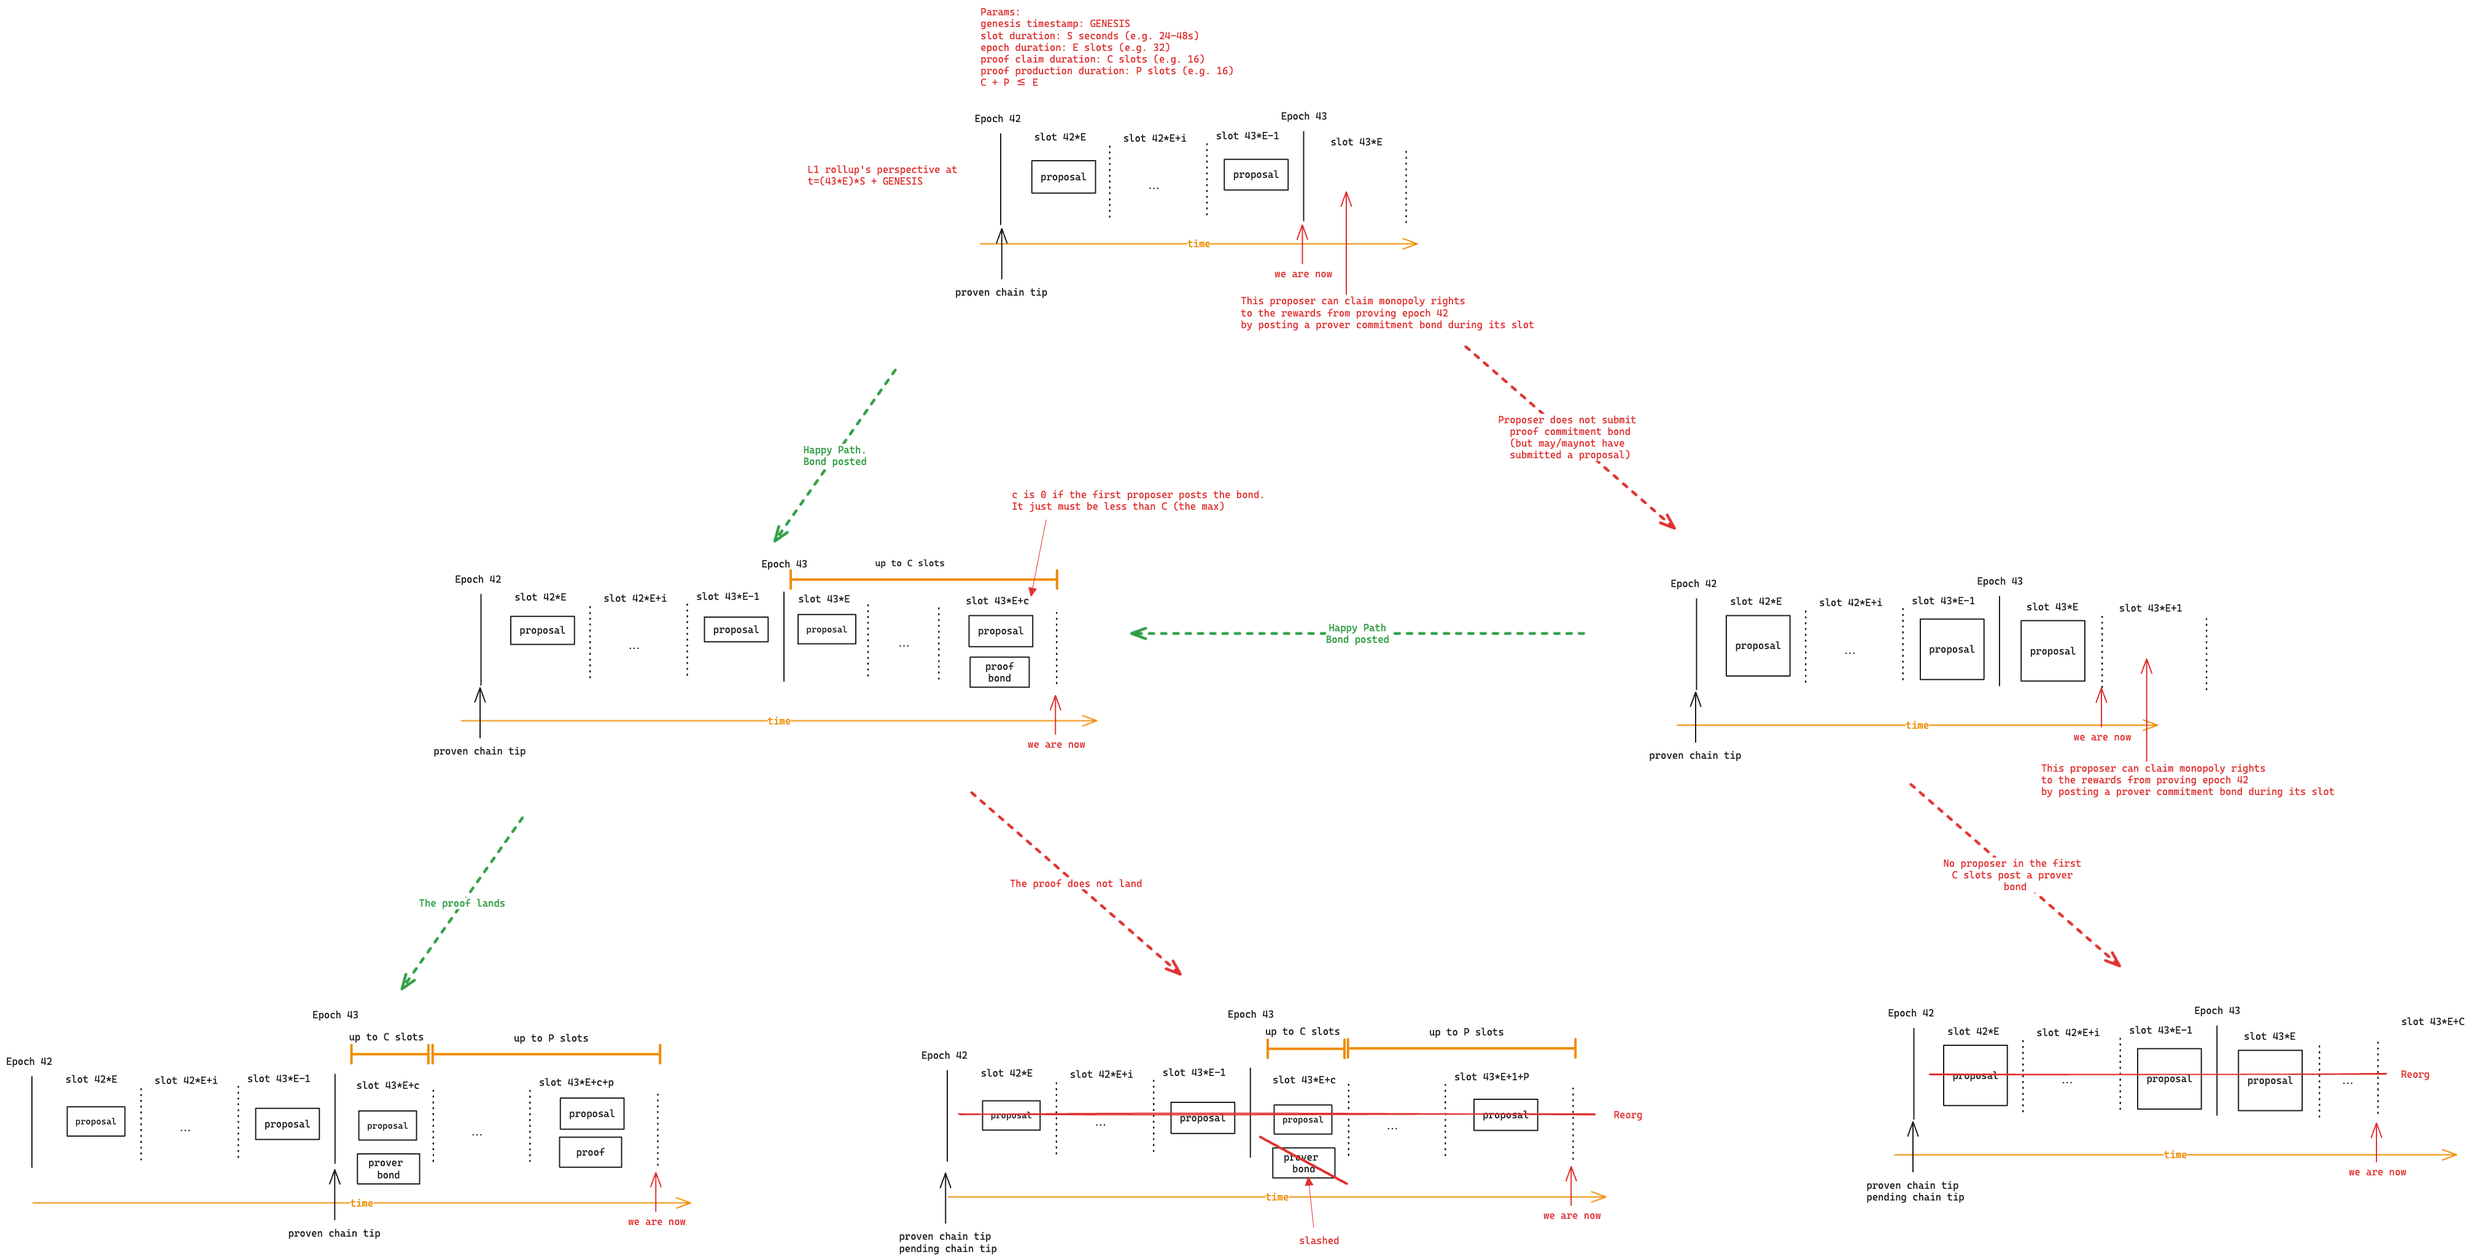
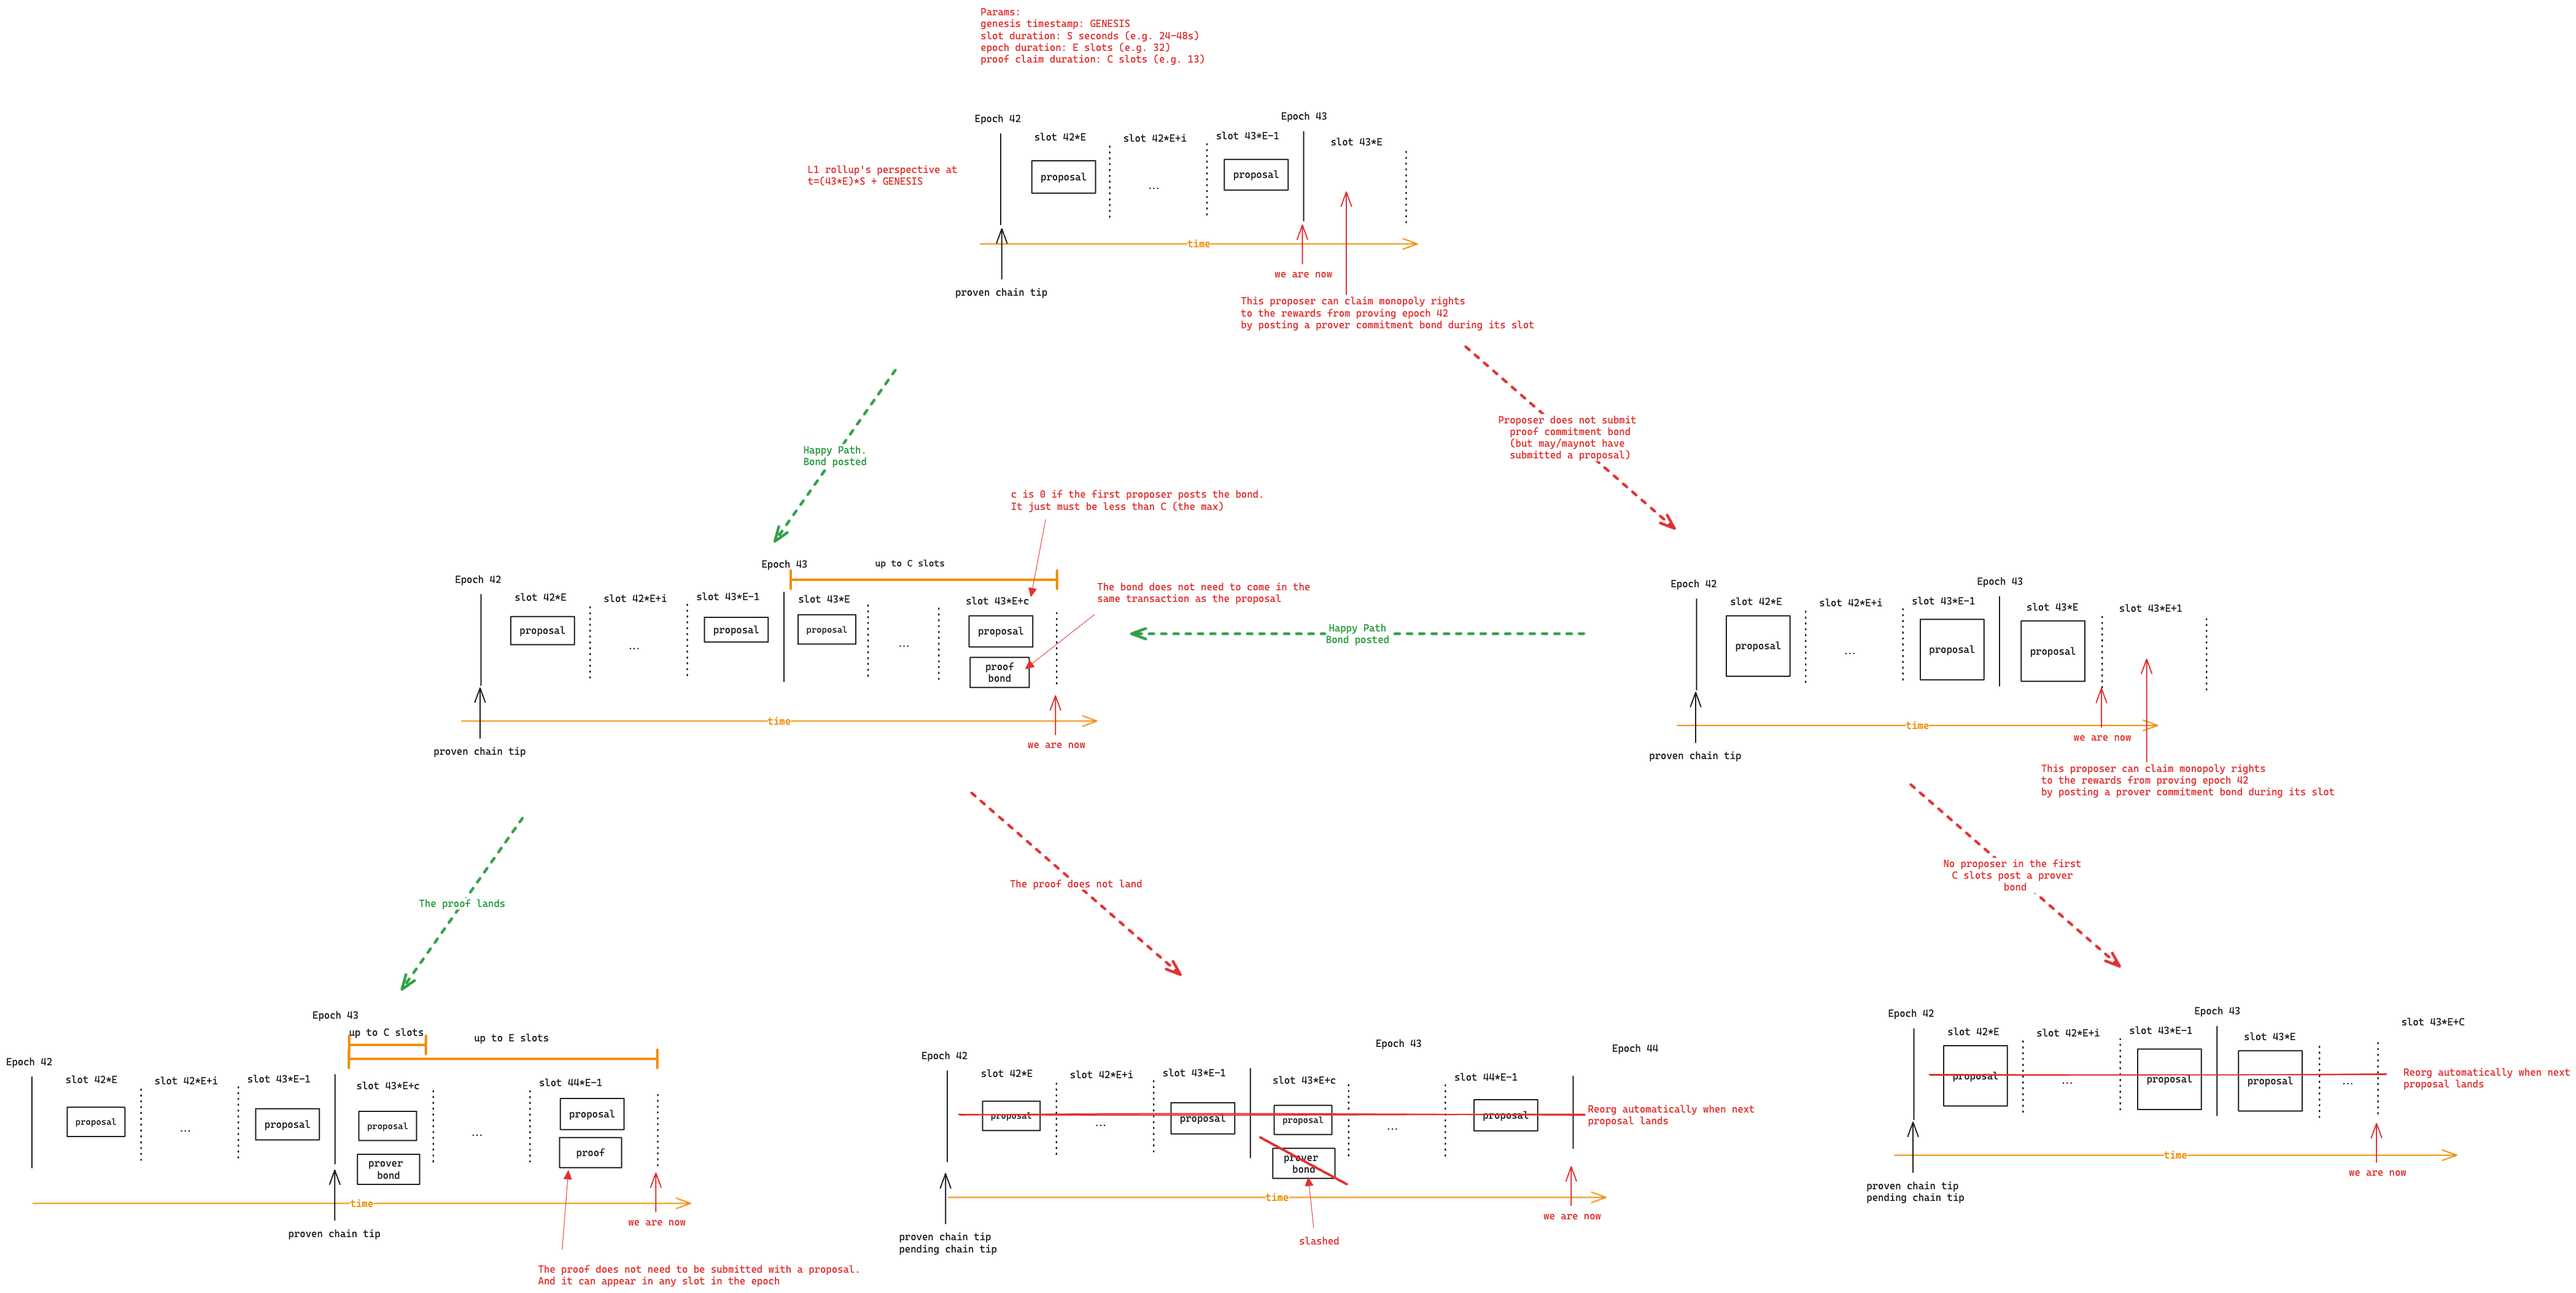
remove proof production phase. clean up implementation

diff --git a/in-progress/8401-proof-timeliness/design.md b/in-progress/8401-proof-timeliness/design.md
@@ -30,221 +30,195 @@ This design focuses on how those timelines are defined and enforced by the rollu
 
 The beginning of each epoch is the "proof claim phase".
 
-This phase has a duration of $C$ slots (e.g. 16 slots).
+This phase has a duration of $C$ slots (e.g. 13 slots).
 
 During this time, the proposer for a slot can submit a claim to be the prover for the previous epoch.
 
 This can be a transaction separate from the submission of their proposed block.
 
-Doing so grants monopoly rights to the rewards for submitting the proof of epoch `n-1`.
+Doing so grants monopoly rights to the rewards for submitting the proof of epoch `n-1`:
+if there are block rewards in test token TST, they will be sent to the address that submitted the claim.
 
-If no claim is submitted, the pending chain is pruned to the tip of the proven chain.
+If no claim is submitted, the pending chain is pruned to the tip of the proven chain;
+a caveat is if a proof for epoch `n-1` is submitted during the proof claim phase.
 
-### Proof production phase
+### Proof production
 
-If a claim is submitted during the proof claim phase, the next phase is the "proof production phase".
+The proof for epoch `n-1` must land in epoch `n`.
 
-This phase has a duration of $P$ slots (e.g. 16 slots).
-
-Failure to submit a proof results in the bond posted with the claim being slashed.
+Failure to submit a proof results in the bond posted with the claim being slashed if it exists.
 
 Further, the pending chain is pruned to the tip of the proven chain.
 
-The wall time duration of $P$ slots must be greater than the time required to produce a proof.
+Given that an epoch is $E$ slots, the wall time duration of $E-C$ slots must be greater than the time required to produce a proof.
 
-For simplicity, $P + C <= E$: this means we will never be producing a proof for more than one epoch at a time.
+## Rough Implementation
 
-## Implementation
+This is a rough, illustrative implementation of the proof timeliness requirement to guide intuition.  
+For example, it is highly unlikely that the rollup contract will hold the bond.
+
+The key "trick" is that we prune the pending chain as part of a proposer's block submission.
+
+An observation is that in the current design, the committee does not change in the event that no proof claim is posted for the previous epoch.
 
 ```solidity
-struct ChainTip {
-    uint256 blockNumber;
-    uint256 slotNumber;
-}
 
-struct State {
-    ChainTip pendingTip;
-    ChainTip provenTip;
-}
-
-struct ProposalLog {
-    bytes32 hash;
-    uint256 slotNumber;
-    bytes32 archive;
-}
-
-struct ProofBond {
-    address bondProvider;
-    address rewardRecipient;
-    uint256 slotOfClaim;
-}
-
-struct Fee {
-    address recipient;
-    uint256 amount;
-}
-
-struct EpochHeader {
-    uint256 finalBlockNumber;
-    Fee[32] fees;
-}
-
-// State variables
-State public state;
-mapping(uint256 => ProposalLog) public proposalLogs;
-ProofBond public proofBond;
-IERC20 public testToken;
-
-// Constants
-uint256 public constant CLAIM_DURATION = 16;
-uint256 public constant PROOF_DURATION = 16;
-uint256 public constant EPOCH_DURATION = 32;
-uint256 public constant PROOF_COMMITMENT_BOND_AMOUNT = 100;
-
-
-function claimProofRight(
-  // the proposer may have a deal with a prover marketplace, who will pay the bond
-  address _bondProvider,
-
-) external {
-  uint256 currentSlot = getCurrentSlot();
-  address currentProposer = getCurrentProposer();
-
-  if (currentProposer != address(0) && currentProposer != msg.sender) {
-    revert Errors.Rollup__NonProposerCannotClaimProofRight();
-  }
-
-  if (proofBond.rewardRecipient != address(0)) {
-    revert Errors.Rollup__ProofRightAlreadyClaimed();
-  }
-
-  if (currentSlot % EPOCH_DURATION >= CLAIM_DURATION) {
-    revert Errors.Rollup__NotInClaimPhase();
-  }
-
-  // transfer the bond from the bond provider to the rollup contract
-  testToken.transferFrom(_bondProvider, address(this), PROOF_COMMITMENT_BOND_AMOUNT);
-
-  proofBond.rewardRecipient = msg.sender;
-  proofBond.bondProvider = _bondProvider;
-  proofBond.slotOfClaim = currentSlot;
-
-  // we don't need to store the epoch number, as it can be inferred from the current slot
-  claimedEpoch = getCurrentEpoch() - 1;
-
-  emit ProofRightClaimed(msg.sender, claimedEpoch, currentSlot);
-}
-
-
-function _prune() internal {
-  uint256 currentSlot = getCurrentSlot();
-  uint256 currentEpoch = getCurrentEpoch();
-  if (
-    // if the proof claim phase has ended
-    // and no one has claimed
-    currentProofClaimer == address(0) && 
-    currentSlot >= state.provenTip.slotNumber + EPOCH_DURATION + CLAIM_DURATION
-  ) {
-    // prune the pending chain to the tip of the proven chain
-    state.pendingTip = state.provenTip;
-    emit PendingChainPruned(state.pendingTip.blockNumber, state.pendingTip.slotNumber);
-  } else if (
-    // if the proof production phase has ended
-    // and no proof has been submitted
-    currentProofClaimer != address(0) &&
-    currentSlot >= proofBond.slotOfClaim + PROOF_DURATION
-  ) {
-    // prune the pending chain to the tip of the proven chain
-    state.pendingTip = state.provenTip;
-    _slashBond(); 
-    emit PendingChainPruned(state.pendingTip.blockNumber, state.pendingTip.slotNumber);
-  }
-}
-
-function _slashBond() internal {
-  // do nothing at the moment
-  // i.e. the rollup contract will keep the bond
-  proofBond.rewardRecipient = address(0);
-  proofBond.bondProvider = address(0);
-
-  emit BondSlashed();
-}
-
-function _returnBond() internal {
-  // return the bond to the bond provider
-  testToken.transfer(proofBond.bondProvider, PROOF_COMMITMENT_BOND_AMOUNT);
-  proofBond.rewardRecipient = address(0);
-  proofBond.bondProvider = address(0);
-
-  emit BondReturned();
-}
-
-function proposeBlock() {
-  // call _prune before proposing a block
-  _prune();
-  // ...
-}
-
-function submitProofOfEpoch(
-  // ...other args
-  bytes calldata _epochHeader
-) {
-  EpochHeader memory epochHeader = decodeHeader(_epochHeader);
-  uint256 finalBlockNumber = epochHeader.finalBlockNumber;
-  Fee[32] memory fees = epochHeader.fees;
-
-  ProposalLog memory proposalLog = proposalLogs[finalBlockNumber];
-  if (proposalLog.hash == 0) {
-    revert Errors.Rollup__NoProposalLog();
-  }
-
-  // check that the proven block is from the previous epoch
-  if (
-    getEpochAt(proposalLog.slotNumber) != getCurrentEpoch() - 1
-  ) {
-    revert Errors.Rollup__NotPreviousEpoch();
-  }
-
-  // check that the proven block is the last one in the epoch
-  ProposalLog memory nextProposalLog = proposalLogs[finalBlockNumber + 1];
-  if (
-    // if there is a next proposal log
-    nextProposalLog.hash != 0 &&
-    // and it is in the same epoch
-    getEpochAt(nextProposalLog.slotNumber) == getCurrentEpoch() - 1
-  ) {
-    revert Errors.Rollup__NotLastBlockInEpoch();
-  }
-
-  // check that the proof is submitted within the proof production phase
-  uint256 currentSlot = getCurrentSlot();
-  if (
-    currentSlot >= proofBond.slotOfClaim + PROOF_DURATION
-  ) {
-    revert Errors.Rollup__ProofProductionPhaseEnded();
-  }
-
-  // ... go on and verify the proof
-
-  // if the proof is valid
-  // update the proven tip
-  state.provenTip = ChainTip(provenBlockNumber, proposalLog.slotNumber);
-
-  // for each fee
-  for (uint256 i = 0; i < fees.length; i++) {
-    if (fees[i].recipient == address(0)) {
-      continue;
+contract Rollup {
+    struct ChainTip {
+        uint256 blockNumber;
+        uint256 slotNumber;
     }
-    FEE_JUICE_PORTAL.distributeFees(
-      proofBond.rewardRecipient, // the prover gets some fees
-      fees[i].recipient, // as does the proposer
-      fees[i].amount
-    );
-  }
 
-  _returnBond();
+    struct State {
+        ChainTip pendingTip;
+        ChainTip provenTip;
+    }
+
+    struct ProposalLog {
+        bytes32 hash;
+        uint256 slotNumber;
+        bytes32 archive;
+    }
+
+    struct ProofClaim {
+        address bondProvider;
+        address rewardRecipient;
+        uint256 claimedEpoch;
+    }
+
+    struct Fee {
+        address recipient;
+        uint256 amount;
+    }
+
+    struct EpochHeader {
+        uint256 finalBlockNumber;
+        Fee[] fees;
+    }
+
+    // State variables
+    State public state;
+    mapping(uint256 => ProposalLog) public proposalLogs;
+    ProofClaim public proofClaim;
+    IERC20 public testToken;
+    IFeeJuicePortal public feeJuicePortal;
+
+    // Constants
+    uint256 public constant CLAIM_DURATION = 13;
+    uint256 public constant EPOCH_DURATION = 32;
+    uint256 public constant PROOF_COMMITMENT_BOND_AMOUNT = 100;
+
+    // Events
+    event ProofRightClaimed(address indexed claimer, uint256 indexed epoch);
+    event PendingChainPruned(uint256 blockNumber, uint256 slotNumber);
+    event ProofSubmitted(uint256 indexed epoch, uint256 finalBlockNumber);
+
+    // Errors
+    error Rollup__NonProposerCannotClaimProofRight();
+    error Rollup__ProofRightAlreadyClaimed();
+    error Rollup__NotInClaimPhase();
+    error Rollup__NoProposalLog();
+    error Rollup__NotPreviousEpoch();
+    error Rollup__NotLastBlockInEpoch();
+    error Rollup__ProofProductionPhaseEnded();
+    error Rollup__UnauthorizedProofSubmitter();
+
+    constructor(address _testToken, address _feeJuicePortal) {
+        testToken = IERC20(_testToken);
+        feeJuicePortal = IFeeJuicePortal(_feeJuicePortal);
+    }
+
+    function claimProofRight(address _bondProvider) external {
+        uint256 currentSlot = getCurrentSlot();
+        address currentProposer = getCurrentProposer();
+
+        if (currentProposer != address(0) && currentProposer != msg.sender) {
+            revert Rollup__NonProposerCannotClaimProofRight();
+        }
+
+        if (proofClaim.rewardRecipient != address(0)) {
+            revert Rollup__ProofRightAlreadyClaimed();
+        }
+
+        if (currentSlot % EPOCH_DURATION >= CLAIM_DURATION) {
+            revert Rollup__NotInClaimPhase();
+        }
+
+        // Bond provider must have approved the contract to transfer the bond amount
+        testToken.transferFrom(_bondProvider, address(this), PROOF_COMMITMENT_BOND_AMOUNT);
+
+        proofClaim = ProofClaim({
+            rewardRecipient: msg.sender,
+            bondProvider: _bondProvider,
+            claimedEpoch: getCurrentEpoch() - 1
+        });
+
+        emit ProofRightClaimed(msg.sender, proofClaim.claimedEpoch, currentSlot);
+    }
+
+    function _prune() internal {
+        uint256 currentSlot = getCurrentSlot();
+        uint256 currentEpoch = getCurrentEpoch();
+        uint256 currentEpochStartSlot = currentEpoch * EPOCH_DURATION;
+
+        if (proofClaim.rewardRecipient == address(0) &&
+            currentSlot >= currentEpochStartSlot + CLAIM_DURATION) {
+            state.pendingTip = state.provenTip;
+            emit PendingChainPruned(state.pendingTip.blockNumber, state.pendingTip.slotNumber);
+        } else if (proofClaim.rewardRecipient != address(0) &&
+                   currentSlot >= currentEpochStartSlot + EPOCH_DURATION) {
+            state.pendingTip = state.provenTip;
+            _slashBond();
+            emit PendingChainPruned(state.pendingTip.blockNumber, state.pendingTip.slotNumber);
+        }
+    }
+
+
+    function proposeBlock(bytes32 _blockHash, bytes32 _archive) external {
+        _prune();
+        // Additional block proposal logic here
+        // ...
+    }
+
+    function submitProofOfEpoch(bytes calldata _epochHeader) external {
+        EpochHeader memory epochHeader = abi.decode(_epochHeader, (EpochHeader));
+        uint256 finalBlockNumber = epochHeader.finalBlockNumber;
+
+        uint256 currentEpoch = getCurrentEpoch();
+
+        // We cannot use chain tip and length because the final block in the epoch may not be in the final slot
+        ProposalLog memory proposalLog = proposalLogs[finalBlockNumber];
+        if (proposalLog.hash == 0) {
+            revert Rollup__NoProposalLog();
+        }
+
+        ProposalLog memory nextProposalLog = proposalLogs[finalBlockNumber + 1];
+        // This serves two checks:
+        // 1. The proof is submitted in the correct epoch
+        // 2. The proof does not truncate the blocks in the epoch it is proving
+        if (nextProposalLog.hash != 0 &&
+            getEpochAt(nextProposalLog.slotNumber) != currentEpoch) {
+            revert Rollup__NotLastBlockInEpoch();
+        }
+
+        bytes32 previousProvenArchive = proposalLogs[state.provenTip.blockNumber].archive;
+        // Proof verification logic here, using the previous proven archive
+        // which ensure's we aren't omitting an epoch
+
+        state.provenTip = ChainTip(finalBlockNumber, proposalLog.slotNumber);
+
+        for (uint256 i = 0; i < epochHeader.fees.length; i++) {
+            Fee memory fee = epochHeader.fees[i];
+            if (fee.recipient != address(0)) {
+                feeJuicePortal.distributeFees(proofClaim.rewardRecipient, fee.recipient, fee.amount);
+            }
+        }
+
+        _returnBond();
+        emit ProofSubmitted(proofClaim.claimedEpoch, finalBlockNumber);
+    }
+
 }
-
 ```
 
 ## Change Set
